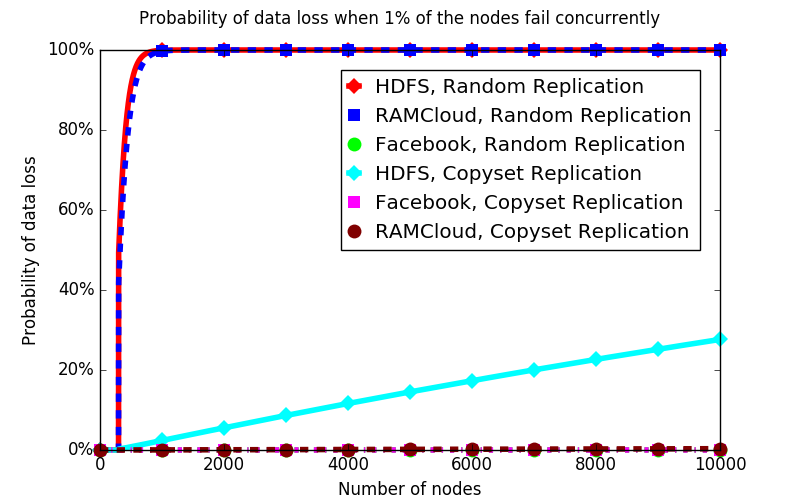
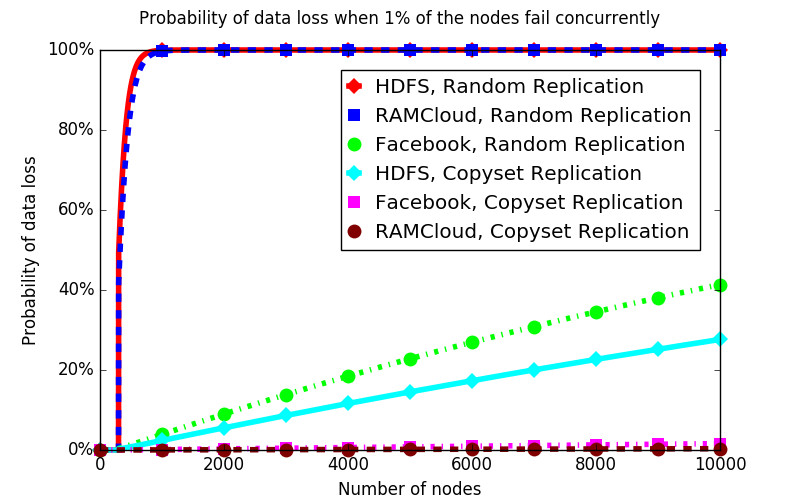
Added Isaiah's Facebook.py changes

diff --git a/Facebook.py b/Facebook.py
@@ -1,4 +1,5 @@
 import Replication
+import scipy.misc
 
 class FacebookScheme(Replication.ReplicationScheme):
    def __init__(self, *args, **kwargs):
@@ -9,8 +10,16 @@ class FacebookScheme(Replication.ReplicationScheme):
 
 class FacebookRandomScheme(FacebookScheme):
    def probabilityOfDataLoss(self, numNodes):
-      # TODO
-      return 0
+      # compute the probability
+      numFailedNodes = 0.01 * numNodes
+      failedCombos = scipy.misc.comb(numFailedNodes, self.replicationFactor)
+      totalCopysets = scipy.misc.comb(numNodes, self.replicationFactor)
+      numCopysets = (scipy.misc.comb(self.scatterWidth + 1,
+                                     self.replicationFactor - 1)
+                     * numNodes)
+      probOfDataLoss = 1.0 - (1.0 - numCopysets / totalCopysets) ** failedCombos
+
+      return probOfDataLoss
 
    def plotInfo(self):
       return Replication.PlotInfo('Facebook, Random Replication',
@@ -19,8 +28,8 @@ class FacebookRandomScheme(FacebookScheme):
 
 class FacebookCopysetScheme(FacebookScheme):
    def probabilityOfDataLoss(self, numNodes):
-      # TODO
-      return 0
+      return self.copysetReplicationDataLoss(
+         numNodes, self.chunksPerNode, self.replicationFactor, self.scatterWidth)
 
    def plotInfo(self):
       return Replication.PlotInfo('Facebook, Copyset Replication',

diff --git a/Replication.py b/Replication.py
@@ -29,7 +29,7 @@ class ReplicationScheme(object):
       numFailedNodes = 0.01 * numNodes
       failedCombos = scipy.misc.comb(numFailedNodes, replicationFactor)
       totalCopysets = scipy.misc.comb(numNodes, replicationFactor)
-      numCopysets = ((scatterWidth / (replicationFactor - 1)) * numNodes /
+      numCopysets = (((scatterWidth + 1) / (replicationFactor - 1)) * numNodes /
                      replicationFactor)
       probOfDataLoss = 1.0 - (1.0 - numCopysets / totalCopysets) ** failedCombos
 
